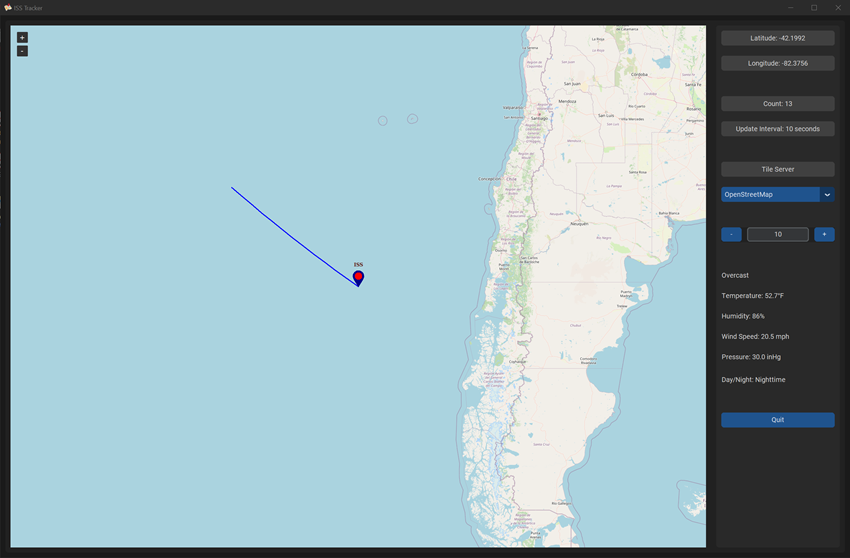
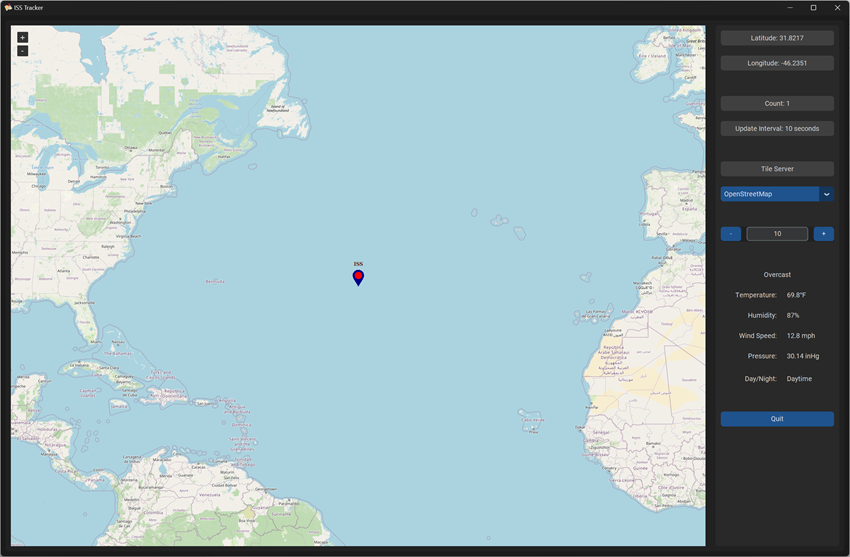
Update weather display

diff --git a/iss_tracker.py b/iss_tracker.py
@@ -294,11 +294,11 @@ class ISSTracker:
         # console.print(f" Humidity: [bold cyan]{c_data[1]}%[/bold cyan]")
         # console.print(f"  Wind Sp: [bold cyan]{c_data[2]} mph[/bold cyan]")
         self.lbl_description.configure(text=f"{description}")
-        self.lbl_temp.configure(text=f"Temperature: {temp}°F")
-        self.lbl_humidity.configure(text=f"Humidity: {humidity}%")
-        self.lbl_wind.configure(text=f"Wind Speed: {wind_speed} mph")
-        self.lbl_pressure.configure(text=f"Pressure: {pressure} inHg")
-        self.lbl_day.configure(text=f"Day/Night: {day}")
+        self.lbl_display_temp.configure(text=f"{temp}°F")
+        self.lbl_display_humidity.configure(text=f"{humidity}%")
+        self.lbl_display_wind.configure(text=f"{wind_speed} mph")
+        self.lbl_display_pressure.configure(text=f"{pressure} inHg")
+        self.lbl_display_day.configure(text=f"{day}")
 
 # ------------------------- RUN ------------------------------------------ #
     def run(self):
@@ -394,78 +394,117 @@ class ISSTracker:
             command=self.change_update_interval
         )
         self.interval_spinbox.grid(
-            row=6, column=0, padx=10, pady=(40, 10), sticky="ew"
+            row=6, column=0, columnspan=2, padx=10, pady=(40, 10), sticky="ew"
         )
         ToolTip(self.interval_spinbox, "Select update interval in seconds")
 
         # Grid layout for status labels
         self.lbl_lat.grid(
-            row=0, column=0, padx=SMALL_GAP, pady=SMALL_GAP, sticky="ew"
+            row=0, column=0, columnspan=2, padx=SMALL_GAP, pady=SMALL_GAP, sticky="ew"
         )
         self.lbl_lng.grid(
-            row=1, column=0, padx=SMALL_GAP, pady=10, sticky="ew"
+            row=1, column=0, columnspan=2, padx=SMALL_GAP, pady=10, sticky="ew"
         )
 
         self.lbl_count.grid(
-            row=2, column=0, padx=10, pady=(40, 10), sticky="ew"
+            row=2, column=0, columnspan=2, padx=10, pady=(40, 10), sticky="ew"
         )
         self.lbl_interval.grid(
-            row=3, column=0, padx=10, pady=10, sticky="ew"
+            row=3, column=0, columnspan=2, padx=10, pady=10, sticky="ew"
         )
 
         self.lbl_tile_server.grid(
-            row=4, column=0, padx=10, pady=(40, 10), sticky="ew"
+            row=4, column=0, columnspan=2, padx=10, pady=(40, 10), sticky="ew"
         )
         self.map_option_menu.grid(
-            row=5, column=0, padx=10, pady=10, sticky="ew"
+            row=5, column=0, columnspan=2, padx=10, pady=10, sticky="ew"
         )
 
-        # Weather labels
+    # ---------------------- WEATHER LABELS ------------------------------ #
         self.lbl_description = ctk.CTkLabel(
-            self.status_frame
+            self.status_frame, anchor="center", wraplength=300
         )
         self.lbl_description.grid(
-            row=8, column=0, padx=10, pady=(BIG_GAP, TINY_GAP), sticky="w"
+            row=8, column=0, padx=10, columnspan=2,
+            pady=(BIG_GAP, TINY_GAP), sticky="ew"
         )
 
         self.lbl_temp = ctk.CTkLabel(
             self.status_frame,
-            text="Temperature:"
+            text="Temperature:", anchor="e"
         )
         self.lbl_temp.grid(
-            row=9, column=0, padx=10, pady=(TINY_GAP), sticky="w"
+            row=9, column=0, padx=10, pady=(TINY_GAP), sticky="e"
+        )
+
+        self.lbl_display_temp = ctk.CTkLabel(
+            self.status_frame, anchor="w"
+        )
+        self.lbl_display_temp.grid(
+            row=9, column=1, padx=10, pady=(TINY_GAP), sticky="w"
         )
 
         self.lbl_humidity = ctk.CTkLabel(
             self.status_frame,
-            text="Humidity:"
+            text="Humidity:", anchor="e"
         )
         self.lbl_humidity.grid(
             row=10, column=0, padx=10,
-            pady=(TINY_GAP), sticky="w")
+            pady=(TINY_GAP), sticky="e")
+
+        self.lbl_display_humidity = ctk.CTkLabel(
+            self.status_frame, anchor="w"
+        )
+        self.lbl_display_humidity.grid(
+            row=10, column=1, padx=10,
+            pady=(TINY_GAP), sticky="w"
+        )
 
         self.lbl_wind = ctk.CTkLabel(
             self.status_frame,
-            text="Wind Speed:"
+            text="Wind Speed:", anchor="e"
         )
         self.lbl_wind.grid(
             row=11, column=0, padx=10,
+            pady=(TINY_GAP), sticky="e")
+
+        self.lbl_display_wind = ctk.CTkLabel(
+            self.status_frame, anchor="w"
+        )
+        self.lbl_display_wind.grid(
+            row=11, column=1, padx=10,
             pady=(TINY_GAP), sticky="w")
 
         self.lbl_pressure = ctk.CTkLabel(
             self.status_frame,
-            text="Pressure:"
+            text="Pressure:", anchor="e"
         )
+
         self.lbl_pressure.grid(
             row=12, column=0, padx=10,
+            pady=(TINY_GAP), sticky="e")
+
+        self.lbl_display_pressure = ctk.CTkLabel(
+            self.status_frame, anchor="w"
+        )
+        self.lbl_display_pressure.grid(
+            row=12, column=1, padx=10,
             pady=(TINY_GAP), sticky="w")
 
         self.lbl_day = ctk.CTkLabel(
             self.status_frame,
-            text="Day/Night:"
+            text="Day/Night:", anchor="e"
         )
         self.lbl_day.grid(
-            row=13, column=0, padx=10, pady=(SMALL_GAP), sticky="w")
+            row=13, column=0, padx=10,
+            pady=(SMALL_GAP), sticky="e")
+
+        self.lbl_display_day = ctk.CTkLabel(
+            self.status_frame,
+            anchor="w"
+        )
+        self.lbl_display_day.grid(
+            row=13, column=1, padx=10, pady=(SMALL_GAP), sticky="w")
 
     # ---------------------- QUIT BUTTON --------------------------------- #
         self.btn_quit = ctk.CTkButton(
@@ -476,7 +515,7 @@ class ISSTracker:
         ToolTip(self.btn_quit, "Press the Escape key to quit")
         self.btn_quit.grid(
             row=14, column=0, padx=10,
-            pady=(BIG_GAP, SMALL_GAP), sticky="ew"
+            pady=(BIG_GAP, SMALL_GAP), sticky="ew", columnspan=2
         )
 
         for child in self.status_frame.winfo_children():
